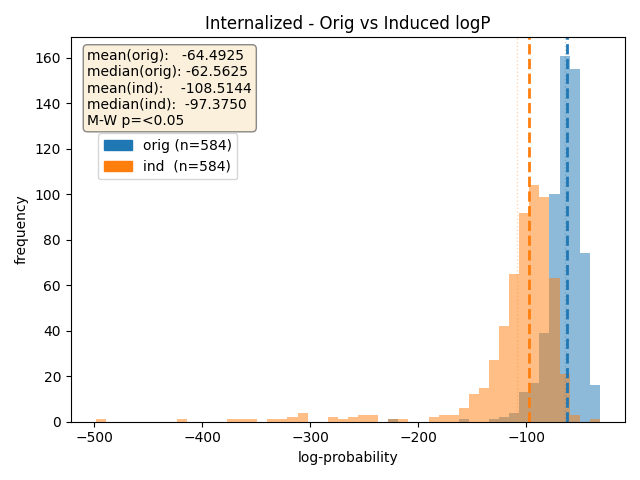
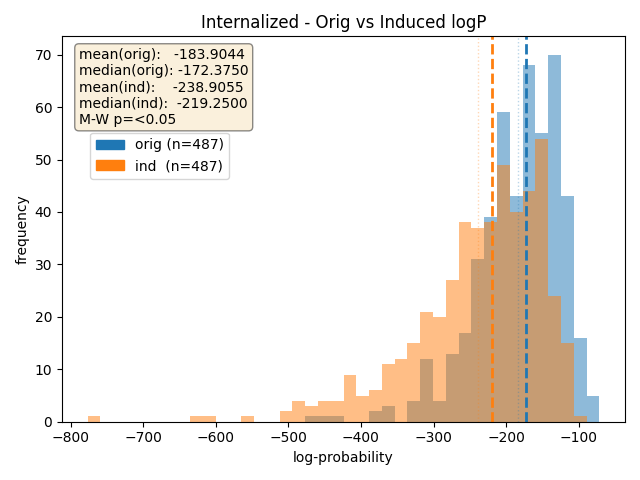
made change to main_batch to allow saving model name used for all metrics; filler type of internalized; to all_metrics to allow specification of filler type; allow different filler type in metric_internalized.py; logs not included

diff --git a/src/plot_metric_logprobs.py b/src/plot_metric_logprobs.py
@@ -69,16 +69,15 @@ def setup_logger(name: str, log_file: str,
     return logger
 
 class LogProbVisualizer:
-    """Loads ⟨orig_lp, induced_lp⟩ pairs + draws two histograms"""
-
     def __init__(self, metric_name: str, in_path: Path, out_dir: Path,
-                 bins: int = DEFAULT_BINS, logger: logging.Logger | None = None):
+                 bins: int = DEFAULT_BINS, logger: logging.Logger | None = None, suffix: str = ""):
         self.metric_name = metric_name
         self.in_path     = in_path
         self.out_dir     = out_dir
         self.out_dir.mkdir(parents=True, exist_ok=True)
         self.bins        = bins
         self.logger      = logger or logging.getLogger(__name__)
+        self.suffix      = suffix
 
     # public API
     def run(self) -> None:
@@ -89,22 +88,21 @@ class LogProbVisualizer:
 
         self._plot_score(score,
                          title=f"{self.metric_name.title()} - score",
-                         fname=self.out_dir / f"{self.metric_name}_score_hist.png")
+                         fname=self.out_dir / f"{self.metric_name}_score_hist{self.suffix}.png")
         self._plot_hist(orig,
                         title=f"{self.metric_name.title()} - Original logP",
-                        fname=self.out_dir / f"{self.metric_name}_orig_logprobs_hist.png")
+                        fname=self.out_dir / f"{self.metric_name}_orig_logprobs_hist{self.suffix}.png")
         self._plot_hist(induced,
                         title=f"{self.metric_name.title()} - Induced logP",
-                        fname=self.out_dir / f"{self.metric_name}_induced_logprobs_hist.png")
+                        fname=self.out_dir / f"{self.metric_name}_induced_logprobs_hist{self.suffix}.png")
         self._plot_combined([orig, induced],
                             title=f"{self.metric_name.title()} - Orig vs Induced logP",
-                            fname=self.out_dir / f"{self.metric_name}_combined_logprobs_hist.png")
+                            fname=self.out_dir / f"{self.metric_name}_combined_logprobs_hist{self.suffix}.png")
         if len(extra) > 0:
             self._plot_combined([orig, induced, extra],
-                            title=f"{self.metric_name.title()} - Extra logP",
-                            fname=self.out_dir / f"{self.metric_name}_extra_logprobs_hist.png")
+                                title=f"{self.metric_name.title()} - Extra logP",
+                                fname=self.out_dir / f"{self.metric_name}_extra_logprobs_hist{self.suffix}.png")
         self.logger.info("Finished - plots written to %s", self.out_dir)
-
     # helpers
     def _load_logprobs(self) -> Tuple[List[float], List[float], List[float]]:
         score_vals: List[float] = []
@@ -306,20 +304,36 @@ def _parse_args():
 
 def main() -> None:
     args = _parse_args()
-
     metric = args.metric_name.lower()
     in_path = Path(args.input_path) if args.input_path else Path(DEFAULT_IN_FILE + metric + ".jsonl")
     out_dir = Path(args.out_dir)
 
+    Path("logs").mkdir(exist_ok=True)
     log_name = f"plot_metric_logprobs_{int(time.time())}.log"
     logger = setup_logger("plot_metric_logprobs", Path("logs") / log_name)
     logger.info("Metric: %s", metric)
+
+    # Extract filler for internalized metric
+    suffix = ""
+    if metric == "internalized":
+        # Example: Qwen3-1.7B_GSM8K_2025-08-03_12:06:40_Internalized_filler_._.jsonl
+        stem = in_path.stem  # Qwen3-1.7B_GSM8K_2025-08-03_12:06:40_Internalized_filler_._
+        if "filler_" in stem:
+            filler_part = stem.split("filler_")[1]  # ._ or :_
+            filler = filler_part.split("_")[0]      # . or :
+            if filler == ".":
+                suffix = "filler_."
+            elif filler == ":":
+                suffix = "filler_:"
+            elif filler == "<":
+                suffix = "filler_<"
 
     vis = LogProbVisualizer(metric_name=metric,
                             in_path=in_path,
                             out_dir=out_dir,
                             bins=args.bins,
-                            logger=logger)
+                            logger=logger,
+                            suffix=suffix)
     vis.run()
 
 

diff --git a/src/metric_internalized.py b/src/metric_internalized.py
@@ -3,22 +3,33 @@ from model import Model, ModelResponse
 from token_utils import TokenUtils
 import torch
 
+
 class InternalizedMetric(Metric):
-    def __init__(self, model: Model, alternative_model: Model | None = None):
+    def __init__(self, model: Model, alternative_model: Model | None = None, filler_token: str = "think"):
         super().__init__("InternalizedMetric", model=model,
-            alternative_model=alternative_model)
+                         alternative_model=alternative_model)
         self.model = model
         self.utils = model.get_utils()
+        self.filler_token = filler_token
 
     def evaluate(self, r: ModelResponse):
+        # Create custom instruction based on the filler token
+        if self.filler_token.isalpha():
+            # For word tokens like "think"
+            custom_instruction = f"Only use the word {self.filler_token.upper()} in your thinking tags."
+        else:
+            # For symbol tokens like ".", ":", "<"
+            custom_instruction = f"Only use the symbol '{self.filler_token}' in your thinking tags."
 
-        question_prime = self.model.make_prompt(self, r.question, custom_instruction="Only use the word THINK in your thinking tags.")
+        question_prime = self.model.make_prompt(self, r.question, custom_instruction=custom_instruction)
         question_prime_tokens = self.utils.encode_to_tensor(question_prime).squeeze(0).to(self.model.model.device)
-        think_token = self.model._get_token_id("think")
+
+        # Get the token ID for the filler token
+        filler_token_id = self.model._get_token_id(self.filler_token)
+
         cot_tokens = self.utils.encode_to_tensor(r.cot).to(self.model.model.device)
-        cot_prime_tokens = [think_token for _ in range(cot_tokens.shape[1])]
+        cot_prime_tokens = [filler_token_id for _ in range(cot_tokens.shape[1])]
         # convert cot_prime_tokens to tensors
-        # cot_prime_tensor = torch.tensor(cot_prime_tokens, device=cot_tokens.device)
         cot_prime_tensor = torch.tensor(cot_prime_tokens, device=cot_tokens.device, dtype=torch.long)
         answer_tokens = self.utils.encode_to_tensor(r.answer).squeeze(0).to(self.model.model.device)
 
@@ -29,23 +40,13 @@ class InternalizedMetric(Metric):
         end_think_token_tensor = torch.tensor([end_think_token]).to(self.model.model.device)
 
         text0_tokens = torch.cat((question_prime_tokens, cot_prime_tensor, end_think_token_tensor),
+                                 dim=0).unsqueeze(0)
+        text_tokens = torch.cat((question_prime_tokens, cot_prime_tensor, end_think_token_tensor, answer_tokens),
                                 dim=0).unsqueeze(0)
-        # print begin tokens
-        #print("begin token","end token:")
-        #print(begin_think_token, end_think_token)
-        # print text0 tokens
-        #print(f"text0_tokens: {text0_tokens}")
-        text_tokens = torch.cat((question_prime_tokens, cot_prime_tensor, end_think_token_tensor, answer_tokens), dim=0).unsqueeze(0)
-        # print text tokens
-        #print(f"text_tokens: {text_tokens}")
+
         skip_count = text0_tokens.shape[1]
         log_probs_intervened = self.model.get_log_probs(text_tokens)
-        internalized_cot_log_probs = self.utils.get_token_log_probs(log_probs_intervened, text_tokens,skip_count)
-
-        # print original log probs
-        #print(f"original log probs: {cot_log_probs}")
-        # print intervened log probs
-        #print(f"intervened log probs: {internalized_cot_log_probs}")
+        internalized_cot_log_probs = self.utils.get_token_log_probs(log_probs_intervened, text_tokens, skip_count)
 
         score_original = cot_log_probs.sum()
         score_intervention = internalized_cot_log_probs.sum()

diff --git a/src/main_batch.py b/src/main_batch.py
@@ -49,9 +49,10 @@ def main():
     parser.add_argument("--data-path", default=None)
     parser.add_argument("--data-hf", default=None)
     parser.add_argument("--skip-samples", type=int, default=0)
+    parser.add_argument("--filler", type=str, default="think")
     parser.add_argument("--max-samples", type=int, default=None)
     parser.add_argument("--cache-dir", default=CACHE_DIR_DEFAULT)
-    parser.add_argument("--log-dir", default=LOG_DIRECTORY_DEFAULT)
+    parser.add_argument("--log-dir", default="data/logprobs/json")
     parser.add_argument("--log-file", default=None)
     parser.add_argument("--log-every", type=int, default=LOG_EVERY_DEFAULT)
     parser.add_argument("--log-verbose", type=bool, default=True)
@@ -86,11 +87,18 @@ def main():
     metric = construct_metric(
         metric_name=args.metric,
         model=model,
-        alternative_model=model2)
+        alternative_model=model2,
+        filler_token=args.filler)
 
     if args.log_file is None:
-        log_file = args.log_dir + "/" + args.model + "_" + dataset_name + "_" + _get_datetime_str() + "_" + args.metric + ".log"
-        json_log_file = args.log_dir + "/" + args.model + "_" + dataset_name + "_" + _get_datetime_str() + "_" + args.metric + ".jsonl"
+        if args.metric == "Internalized":
+            log_file = (args.log_dir + "/" + args.model + "_" + dataset_name + "_" + _get_datetime_str() + "_"
+                        + args.metric + "_filler_" + args.filler + "_" + ".log")
+            json_log_file = (args.log_dir + "/" + args.model + "_" + dataset_name + "_" + _get_datetime_str() + "_"
+                             + args.metric + "_filler_" + args.filler + "_" + ".jsonl")
+        else:
+            log_file = args.log_dir + "/" + args.model + "_" + dataset_name + "_" + _get_datetime_str() + "_" + args.metric + ".log"
+            json_log_file = args.log_dir + "/" + args.model + "_" + dataset_name + "_" + _get_datetime_str() + "_" + args.metric + ".jsonl"
         os.makedirs(args.log_dir, exist_ok=True)
     else:
         log_file = args.log_file

diff --git a/src/all_metrics.py b/src/all_metrics.py
@@ -12,9 +12,11 @@ METRICS = {
     "Internalized": InternalizedMetric
 }
 
-def construct_metric(metric_name, model, alternative_model):
+def construct_metric(metric_name, model, alternative_model, **kwargs):
     construct_metric = METRICS[metric_name]
     metric = construct_metric(
         model=model,
-        alternative_model=alternative_model)
+        alternative_model=alternative_model,
+        **kwargs
+    )
     return metric
